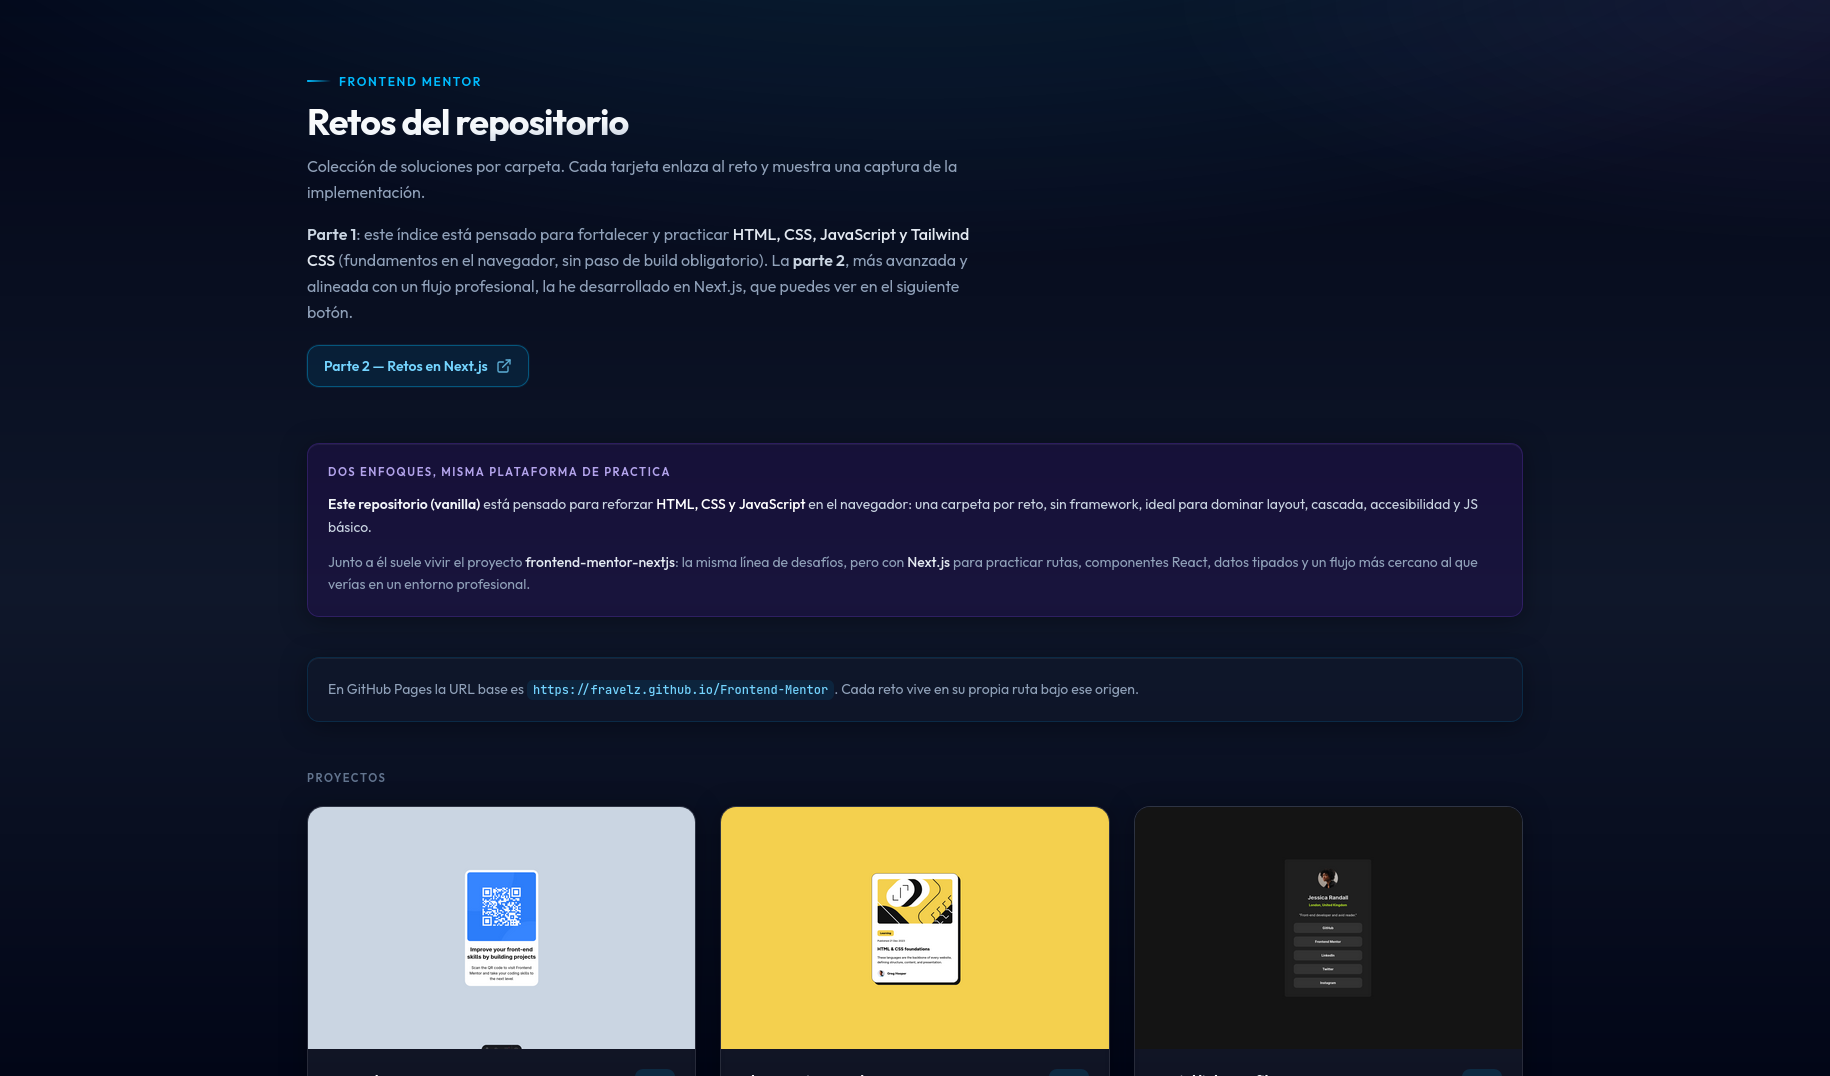
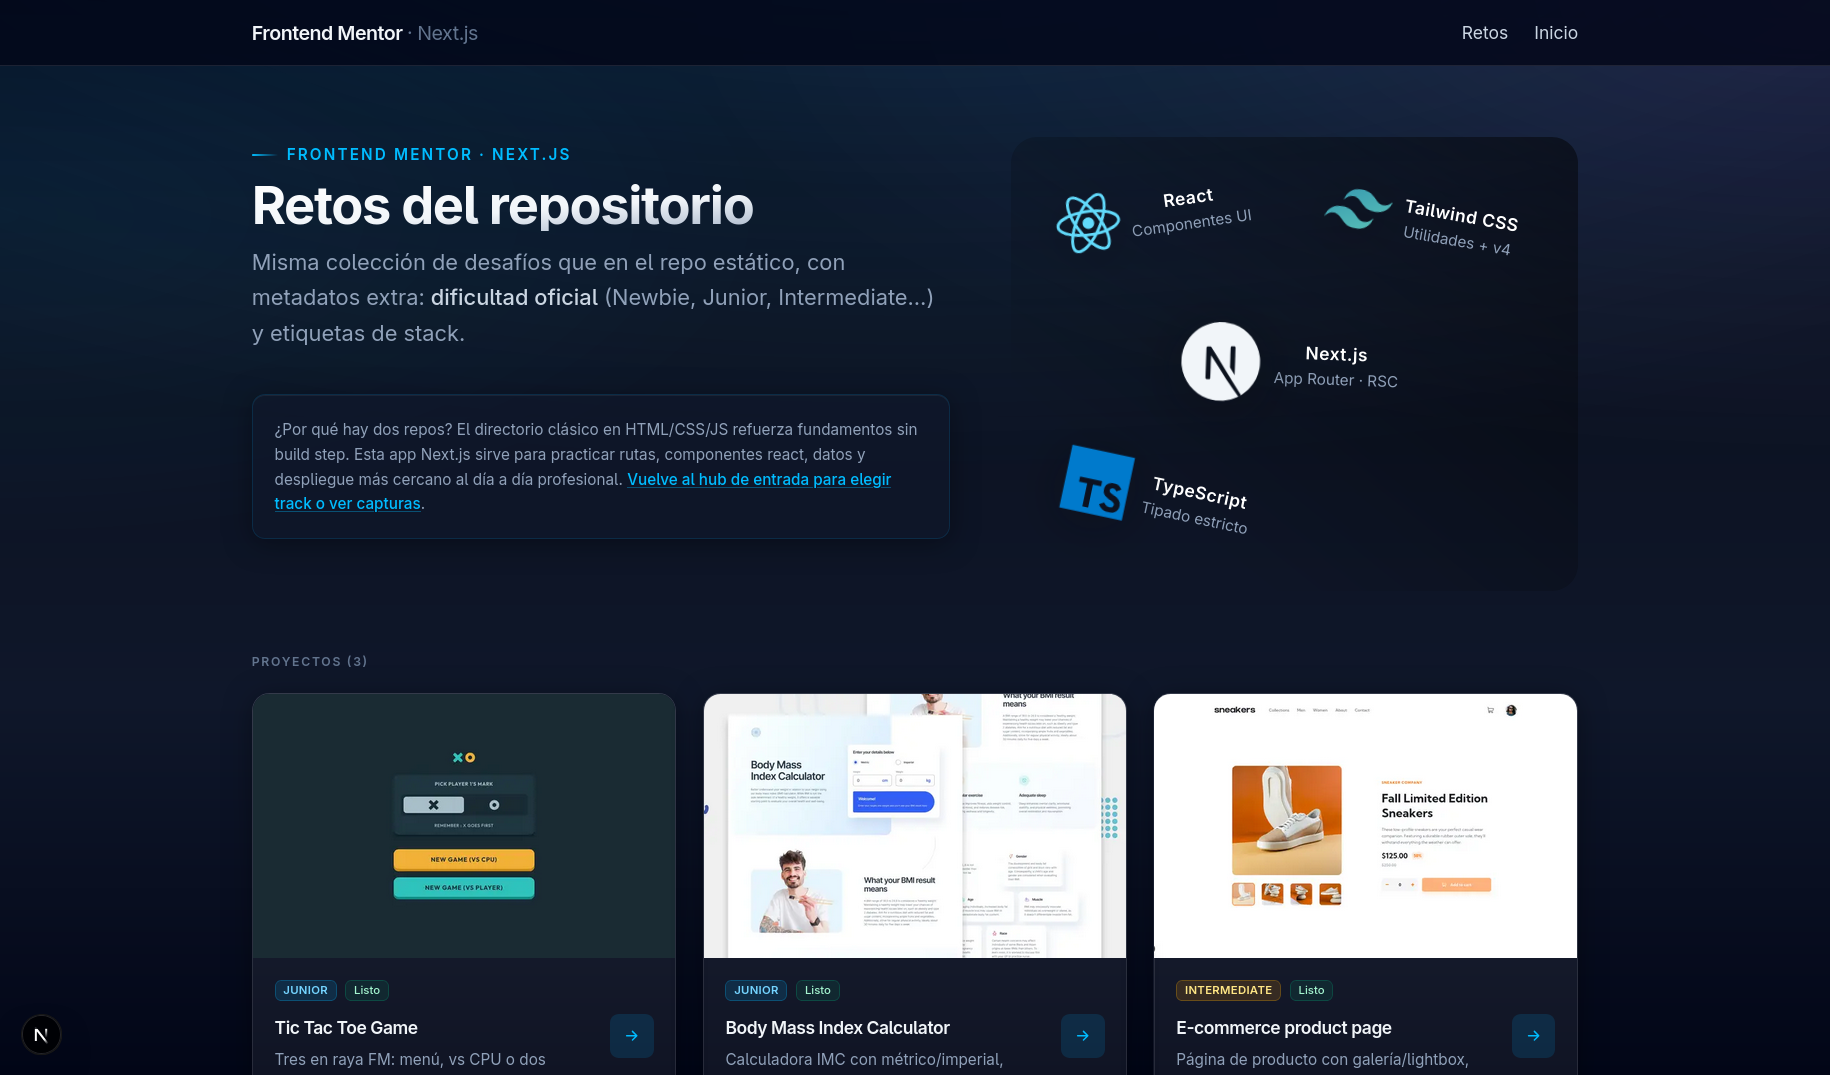
update: opengraph image and next-index image feat: layout reorganized (move badge to top)

diff --git a/src/app/(with-layout)/page.tsx b/src/app/(with-layout)/page.tsx
@@ -32,29 +32,30 @@ export default function HomePage() {
               <strong className="font-medium text-slate-300">dificultad oficial</strong> (Newbie, Junior, Intermediate…)
               y etiquetas de stack.
             </p>
-          </div>
-          <HeroTechStack />
-        </div>
 
-        <div
-          className={cn(
-            "mb-10 rounded-xl border border-sky-500/15 bg-slate-900/50 p-4 backdrop-blur-md sm:p-5 lg:mb-12",
-            "shadow-[0_4px_24px_rgba(0,0,0,0.35),inset_0_1px_0_rgba(255,255,255,0.06)]",
-          )}
-          role="note"
-        >
-          <p className="text-sm leading-relaxed text-slate-400">
-            ¿Por qué hay dos repos? El directorio clásico en HTML/CSS/JS refuerza fundamentos sin build step. Esta app
-            Next.js sirve para practicar rutas, componentes react, datos y despliegue más cercano al día a día
-            profesional.{" "}
-            <Link
-              href="/start"
-              className="font-medium text-sky-400 underline decoration-sky-400/35 underline-offset-2 hover:text-sky-300"
+            <div
+              className={cn(
+                "my-10 rounded-xl border border-sky-500/15 bg-slate-900/50 p-4 backdrop-blur-md sm:p-5 lg:mb-12",
+                "shadow-[0_4px_24px_rgba(0,0,0,0.35),inset_0_1px_0_rgba(255,255,255,0.06)]",
+              )}
+              role="note"
             >
-              Vuelve al hub de entrada para elegir track o ver capturas
-            </Link>
-            .
-          </p>
+              <p className="text-sm leading-relaxed text-slate-400">
+                ¿Por qué hay dos repos? El directorio clásico en HTML/CSS/JS refuerza fundamentos sin build step. Esta
+                app Next.js sirve para practicar rutas, componentes react, datos y despliegue más cercano al día a día
+                profesional.{" "}
+                <Link
+                  href="/start"
+                  className="font-medium text-sky-400 underline decoration-sky-400/35 underline-offset-2 hover:text-sky-300"
+                >
+                  Vuelve al hub de entrada para elegir track o ver capturas
+                </Link>
+                .
+              </p>
+            </div>
+          </div>
+
+          <HeroTechStack />
         </div>
 
         <section aria-labelledby="challenges-heading">
